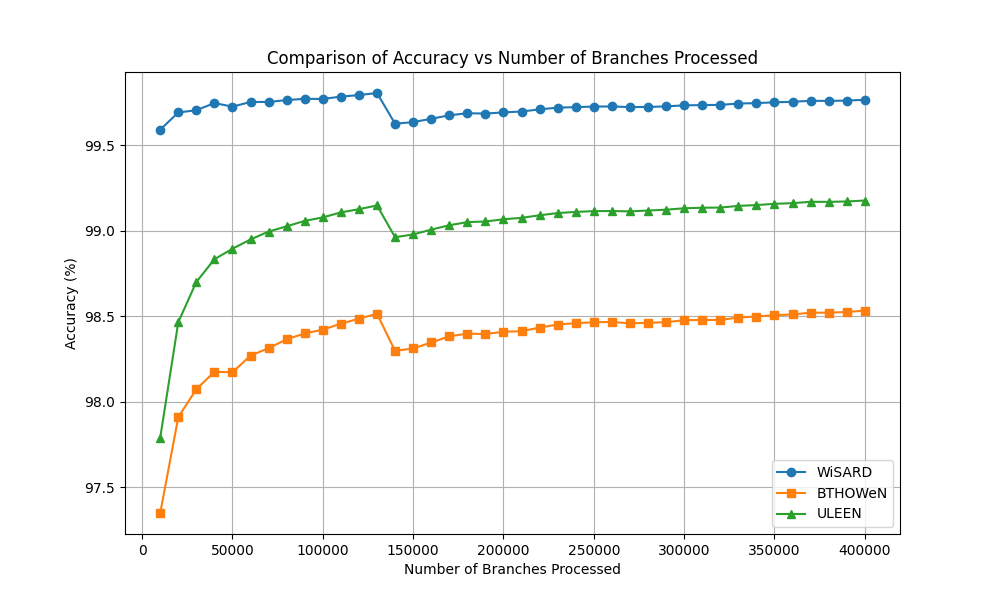
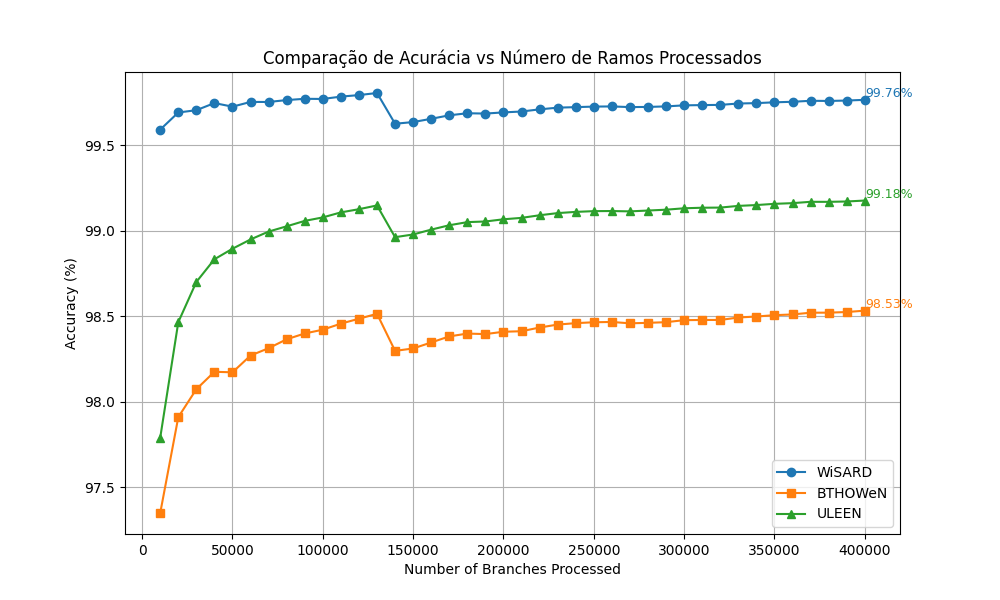
Alterando graph.py

diff --git a/Results_accuracy/graph.py b/Results_accuracy/graph.py
@@ -4,56 +4,72 @@ import sys
 
 def plot_csv_data(file1, file2, file3, x_column, y_column, labels, output_file=None):
     """
-    Plots data from three CSV files.
+    Plota dados de três arquivos CSV.
 
-    :param file1: Path to the first CSV file
-    :param file2: Path to the second CSV file
-    :param file3: Path to the third CSV file
-    :param x_column: Name of the column to use for the X-axis
-    :param y_column: Name of the column to use for the Y-axis
-    :param labels: List of labels for the three datasets
-    :param output_file: Path to save the plot as an image (optional)
+    :param file1: Caminho para o primeiro arquivo CSV
+    :param file2: Caminho para o segundo arquivo CSV
+    :param file3: Caminho para o terceiro arquivo CSV
+    :param x_column: Nome da coluna para o eixo X
+    :param y_column: Nome da coluna para o eixo Y
+    :param labels: Lista de rótulos para os três conjuntos de dados
+    :param output_file: Caminho para salvar o gráfico como imagem (opcional)
     """
-    # Load the data
+    # Carregar os dados
     data1 = pd.read_csv(file1)
     data2 = pd.read_csv(file2)
     data3 = pd.read_csv(file3)
 
-    # Plot the data
+    # Plotar os dados
     plt.figure(figsize=(10, 6))
-    plt.plot(data1[x_column], data1[y_column], label=labels[0], marker='o')
-    plt.plot(data2[x_column], data2[y_column], label=labels[1], marker='s')
-    plt.plot(data3[x_column], data3[y_column], label=labels[2], marker='^')
+    line1, = plt.plot(data1[x_column], data1[y_column], label=labels[0], marker='o')
+    line2, = plt.plot(data2[x_column], data2[y_column], label=labels[1], marker='s')
+    line3, = plt.plot(data3[x_column], data3[y_column], label=labels[2], marker='^')
 
-    # Customize the plot
-    plt.title('Comparison of Accuracy vs Number of Branches Processed')
+    # Adicionar anotações com porcentagens e casas decimais no final de cada linha
+    # Conjunto de dados 1
+    x1 = data1[x_column].iloc[-1]
+    y1 = data1[y_column].iloc[-1]
+    plt.text(x1, y1, f"{y1:.2f}%", fontsize=9, ha='left', va='bottom', color=line1.get_color())
+
+    # Conjunto de dados 2
+    x2 = data2[x_column].iloc[-1]
+    y2 = data2[y_column].iloc[-1]
+    plt.text(x2, y2, f"{y2:.2f}%", fontsize=9, ha='left', va='bottom', color=line2.get_color())
+
+    # Conjunto de dados 3
+    x3 = data3[x_column].iloc[-1]
+    y3 = data3[y_column].iloc[-1]
+    plt.text(x3, y3, f"{y3:.2f}%", fontsize=9, ha='left', va='bottom', color=line3.get_color())
+
+    # Personalizar o gráfico
+    plt.title('Comparação de Acurácia vs Número de Ramos Processados')
     plt.xlabel(x_column)
     plt.ylabel(y_column)
     plt.legend()
     plt.grid(True)
 
-    # Show or save the plot
+    # Mostrar ou salvar o gráfico
     if output_file:
         plt.savefig(output_file)
-        print(f"Plot saved to {output_file}")
+        print(f"Gráfico salvo em {output_file}")
     else:
         plt.show()
 
 if __name__ == "__main__":
     if len(sys.argv) < 4:
-        print("Usage: python graph.py <wisard.csv> <bthowen.csv> <uleen.csv> [output_file]")
+        print("Uso: python graph.py <wisard.csv> <bthowen.csv> <uleen.csv> [output_file]")
         sys.exit(1)
 
-    # Parse command-line arguments
+    # Analisar argumentos de linha de comando
     file1 = sys.argv[1]
     file2 = sys.argv[2]
     file3 = sys.argv[3]
     output_file = sys.argv[4] if len(sys.argv) > 4 else None
 
-    # Column names and labels
+    # Nomes das colunas e rótulos
     x_column = "Number of Branches Processed"
     y_column = "Accuracy (%)"
     labels = ["WiSARD", "BTHOWeN", "ULEEN"]
 
-    # Generate the plot
+    # Gerar o gráfico
     plot_csv_data(file1, file2, file3, x_column, y_column, labels, output_file)
